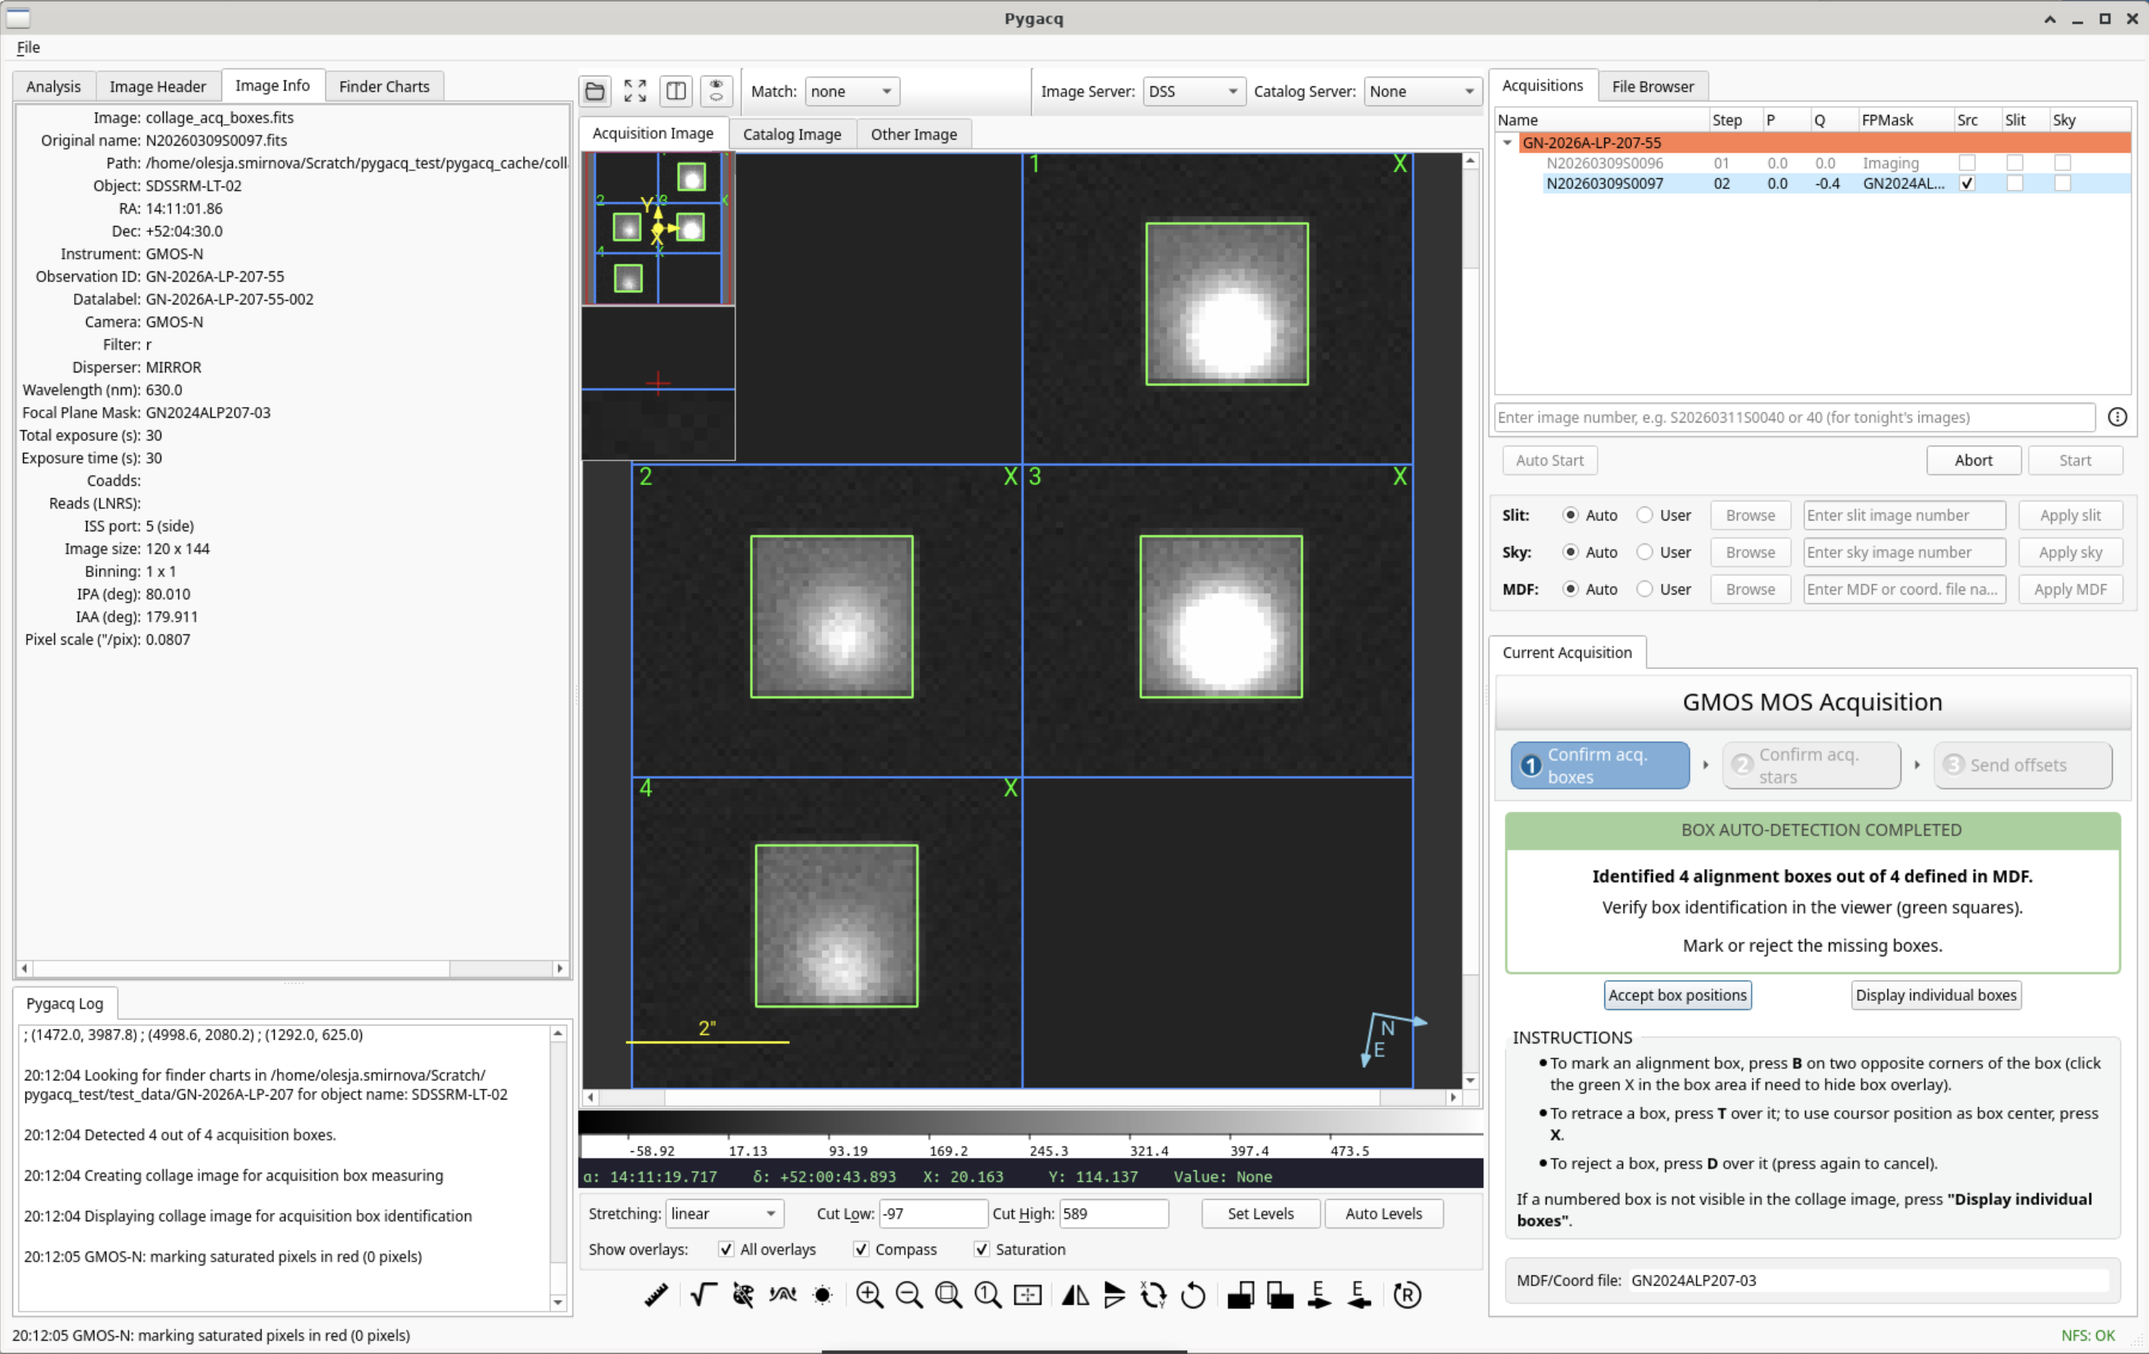
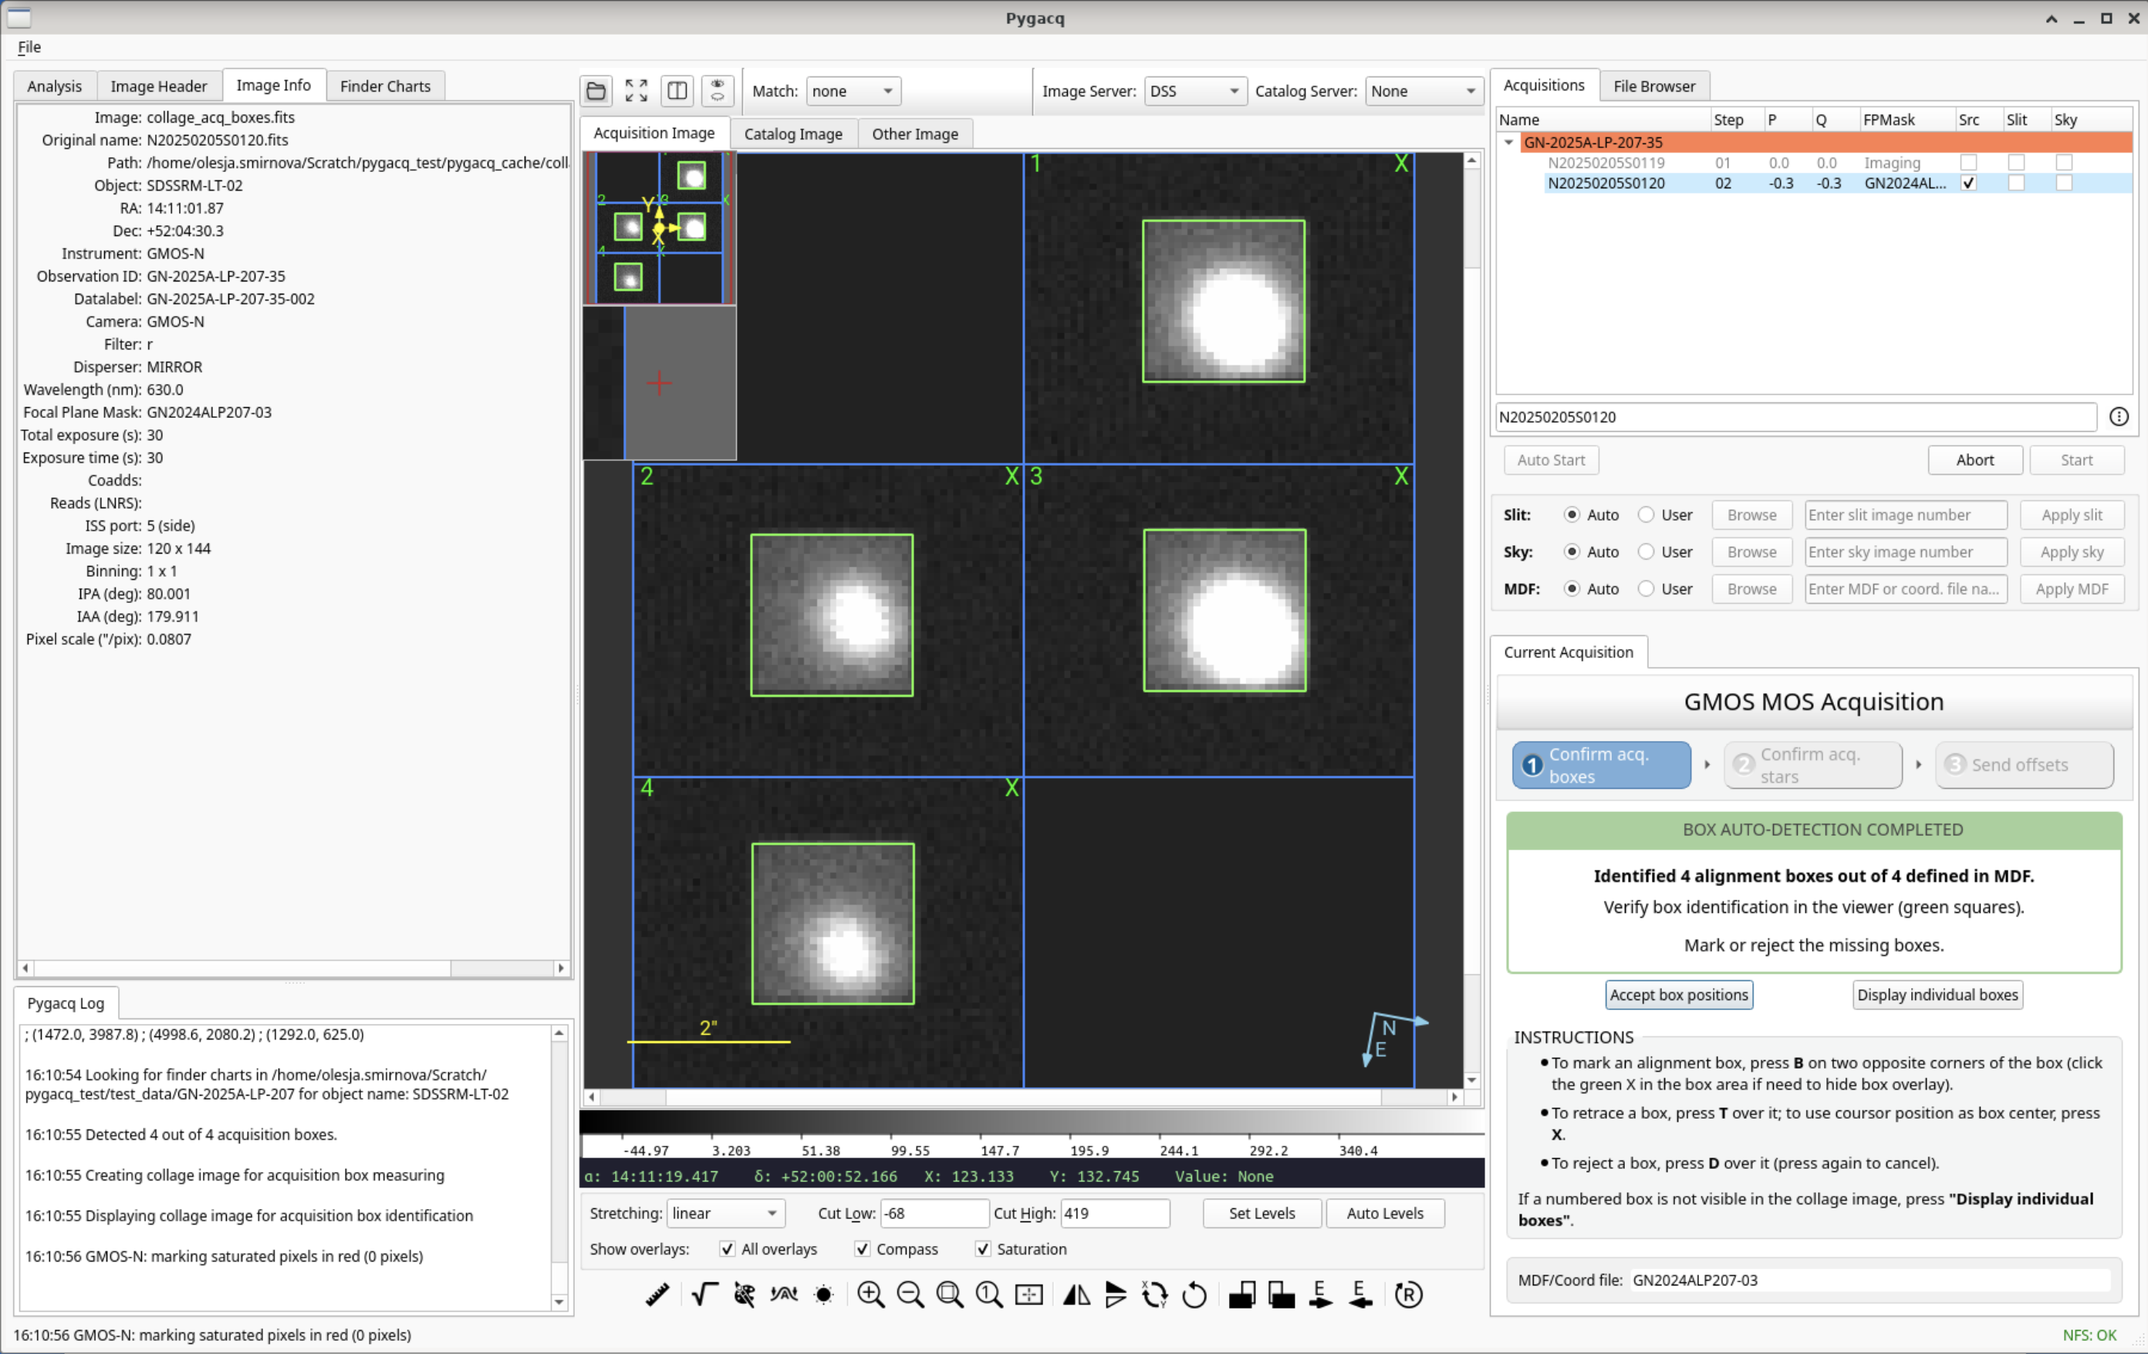
ifu modes

diff --git a/docs/tutorial/longslit-gmos.md b/docs/tutorial/longslit-gmos.md
@@ -1,19 +1,19 @@
 # GMOS long-slit acquisition
 
-This example is a GMOS-S long-slit acquisition of a relatively bright target 2026sfn
-(GS-2026A-Q-122-40). It uses four images:
+This example is a GMOS-S long-slit acquisition of a relatively bright supernova
+(GS-2024B-Q-417-201). It uses four images:
 
 | Image            | What it is                   | Slit in beam | P (") | Q (") |
 |------------------|------------------------------|--------------|-------|-------|
-| S20260713S0077   | Field image                  | no           | 0.0   | 0.0   |
-| S20260713S0078   | Off-target slit image        | yes          | 10.0  | 0.0   |
-| S20260713S0079   | Through-slit on-target image | yes          | −3.1  | 0.1   |
-| S20260713S0080   | Through-slit on-target image | yes          | −3.0  | 0.1   |
+| S20250115S0279   | Field image                  | no           | 0.0   | 0.0   |
+| S20250115S0280   | Off-target slit image        | yes          | 10.0  | 0.0   |
+| S20250115S0281   | Through-slit on-target image | yes          | −0.4  | −0.6  |
+| S20250115S0282   | Through-slit on-target image | yes          | −0.3  | −0.6  |
 
 P and Q are the telescope offsets of each image.
 
-The observer took the first two images, then started
-the acquisition on the zero-offset field image.
+The observer took the first (field) images, then started
+the acquisition on it while the second image was still exposing.
 
 :::{tip}
 You don't have to wait for the slit image to finish. Start the acquisition as
@@ -23,7 +23,7 @@ arrives.
 
 ## 1. Load the field image
 
-Type `S20260713S0077` in the *Enter image number* box and press {kbd}`Enter`.
+Type `S20250115S0279` in the *Enter image number* box and press {kbd}`Enter`.
 
 Pygacq finds the slit image of this observation and measures the slit center
 on it. The **Slit** column of the **Acquisitions** list shows which image it
@@ -39,8 +39,19 @@ The associated slit image is ticked in the **Slit** column.
 
 ## 2. Find the target with the finder chart
 
-Pygacq found a finder chart named after the target and shows it in the **Finder
-Charts** tab. To enlarge it, click the expand button below the chart.
+This target has a finder chart, but its file name doesn't contain the full
+target name, so Pygacq didn't match it. The **Finder Charts** tab shows the list
+of all charts in the program directory instead, with the target name at the top.
+Find the chart whose name contains it and double-click it to open it. To enlarge
+it, click the expand button below the chart.
+
+:::{figure} images/ls-finder-chart-list-with-arrows.png
+:width: 60%
+:alt: The Finder Charts tab listing the charts of the program, with the target name at the top
+
+The target name, `SN 2024ggi`, and the charts found in the program directory.
+Its chart is named `2024ggi_colored.png`.
+:::
 
 The chart has North up and East left. To orient the acquisition image the same
 way, click ![](images/icons/orient_ne.svg){w=22px} in the toolbar under the
@@ -76,7 +87,7 @@ instructions, and **One-target acquisition** selected.
 
 ## 4. Confirm the slit center
 
-Pygacq traces the slit on the off-target slit image, `S20260713S0078`, and
+Pygacq traces the slit on the off-target slit image, `S20250115S0280`, and
 switches the viewer to it, with the measured center and the slit overlay drawn
 on it. The plot in the **Analysis** tab shows the slit center measured along the
 slit.
@@ -98,7 +109,7 @@ cross-cut.
 :width: 100%
 :alt: The Confirm slit center step: the traced slit on the slit image and the slit-tracing plot in the Analysis tab
 
-The traced slit on `S20260713S0078`, and the slit-tracing plot on the left.
+The traced slit on `S20250115S0280`, and the slit-tracing plot on the left.
 :::
 
 ## 5. Send the offsets
@@ -115,12 +126,12 @@ on-target image. **Copy Offsets** copies the offsets, e.g. for the OT.
 
 ## 6. Load the through-slit image
 
-Type `S20260713S0079` in the *Enter image number* box and press {kbd}`Enter`.
+Type `S20250115S0281` in the *Enter image number* box and press {kbd}`Enter`.
 
 The slit is in the beam now, so this image is ticked in the **Slit** column of
 the **Acquisitions** list and could be used to measure the slit itself. The GMOS slit position is stable, so Pygacq reuses the measurement from
 the off-target slit image instead and says so on the target-marking page:
-*Reusing previous slit measurement from S20260713S0078*.
+*Reusing previous slit measurement from S20250115S0280*.
 
 Check that the slit overlay from that measurement still lies along the slit.
 
@@ -128,20 +139,24 @@ Check that the slit overlay from that measurement still lies along the slit.
 :width: 50%
 :alt: The Mark target(s) step with the message that the previous slit measurement is reused
 
-Pygacq reuses the slit measurement from `S20260713S0078`.
+Pygacq reuses the slit measurement from `S20250115S0280`.
 :::
 
 ## 7. Mark the target in the slit
 
-Mark the target as in [step 3](#3-mark-the-target). The slit cuts off part of
-the star, so the {kbd}`R` fit may be poor. If it is, press {kbd}`X` on the center
-of the star in the contour plot. Accept with {kbd}`Q`.
+Mark the target as in [step 3](#3-mark-the-target). It is bright and not cut by
+the slit, so {kbd}`R` centroids it well. Accept with {kbd}`Q`.
 
-:::{figure} images/ls-target-in-slit.png
-:width: 50%
-:alt: The contour plot of the target in the slit
+:::{figure} images/ls-target-in-slit-with-arrows.png
+:width: 100%
+:alt: The second pass: the target marked in the slit on the through-slit image
 
-The contour plot of the target in the slit. Press {kbd}`X` on the center of the star.
+The target marked in the slit on the through-slit image.
+:::
+
+:::{tip}
+If the slit cuts off part of the target, the {kbd}`R` fit can land off center.
+You can mark the star with {kbd}`X` in the contour plot instead.
 :::
 
 :::{note}
@@ -153,16 +168,25 @@ to it.
 
 ## 8. Send the offsets to improve the centering
 
-The offsets are small, so Pygacq advises *Ignore offsets and start science
-immediately*. The grey text under the offsets says why: *\|P\| < 10% of the slit
-width and \|Q\| < 0.5"*.
-
-During the actual observation, the observer chose to improve the centering and
-sent the offsets anyway. To do the same, click **Send offsets to telescope**.
-Don't press {kbd}`Enter`: the highlighted button follows the advice and ignores
-the offsets.
+The offsets are P = 0.105", Q = 0.037". \|P\| is just over 10% of the slit
+width, so the advice is to apply them and take another acquisition image. To
+follow it, press {kbd}`Enter`.
 
 After the offsets were applied, another through-slit on-target image was taken.
+
+<!-- TODO: screenshot of the offsets page for S20250115S0281. -->
+
+## 9. Check the centering and start science
+
+Load the next through-slit image, `S20250115S0282`, and repeat
+[steps 6](#6-load-the-through-slit-image) and [7](#7-mark-the-target-in-the-slit).
+The slit measurement is reused again, so the **Confirm slit center** step is
+skipped.
+
+The target is now well centered in the slit: the offsets are P = −0.005",
+Q = 0.045", both within the limits, so the advice is to ignore them and start
+science. To follow it, press {kbd}`Enter`. The last page says to start the
+science sequence.
 
 :::{figure} images/ls-offsets-ignore.png
 :width: 60%
@@ -170,14 +194,3 @@ After the offsets were applied, another through-slit on-target image was taken.
 
 The offsets are small, and **Ignore offsets** is highlighted.
 :::
-
-## 9. Check the centering and start science
-
-Load the next through-slit image, `S20260713S0080`, and repeat
-[steps 6](#6-load-the-through-slit-image) and [7](#7-mark-the-target-in-the-slit).
-The slit measurement is reused again, so the **Confirm slit center** step is
-skipped.
-
-The target is now well centered in the slit, and Pygacq advises *Ignore offsets
-and start science immediately*. To follow the advice, press {kbd}`Enter`. The
-last page says to start the science sequence.

diff --git a/docs/tutorial/mos-gmos-n.md b/docs/tutorial/mos-gmos-n.md
@@ -1,13 +1,13 @@
 # GMOS-N MOS acquisition (starting with mask out)
 
-This example starts with the mask out of the beam. The observation is GN-2026A-LP-207-55, with the mask `GN2024ALP207-03`.
+This example starts with the mask out of the beam. The observation is GN-2025A-LP-207-35, with the mask `GN2024ALP207-03`.
 It uses three images:
 
 | Image            | What it is      | Mask in beam | P (") | Q (")  |
 |------------------|-----------------|--------------|-------|--------|
-| N20260309S0096   | Field image     | no           | 0.0   | 0.0    |
-| N20260309S0097   | Mask-in image   | yes          | 0.0   | −0.4   |
-| N20260309S0098   | Mask-in image   | yes          | −0.1  | −0.1   |
+| N20250205S0119   | Field image     | no           | 0.0   | 0.0    |
+| N20250205S0120   | Mask-in image   | yes          | −0.3  | −0.3   |
+| N20250205S0121   | Mask-in image   | yes          | −0.5  | 0.0    |
 
 P and Q are the telescope offsets of each image.
 
@@ -28,11 +28,11 @@ number* box, and tick **Manual acquisition type**. It makes the flow match the
 one at night. Skip it when observing.
 :::
 
-Type `N20260309S0096` in the *Enter image number* box and press {kbd}`Enter`.
+Type `N20250205S0119` in the *Enter image number* box and press {kbd}`Enter`.
 
 In the **Select Acquisition Type** dialog, select **MOS**. Pygacq fills in the
 **Mask number** box with the program part from the current observation,
-`GN2026ALP207`. This mask was made in an earlier semester, so change it to
+`GN2025ALP207`. This mask was made in an earlier semester, so change it to
 `GN2024ALP207`, type `3` after the dash, and click **Select**.
 
 :::{figure} images/mos-type-dialog.png
@@ -84,7 +84,7 @@ image of the sequence, with the mask in.
 
 ## 4. Confirm the acquisition boxes
 
-Type `N20260309S0097` in the *Enter image number* box and press {kbd}`Enter`.
+Type `N20250205S0120` in the *Enter image number* box and press {kbd}`Enter`.
 
 The mask is in the beam now, so the first step is **Confirm acq. boxes**. Pygacq
 traces the acquisition boxes and shows them in a collage, with a green square on
@@ -119,23 +119,22 @@ The same collage, now with a red cross on the star in each box.
 ## 6. Read the offset advice
 
 Pygacq fits the mask to the star positions. The grey text under the offsets
-says why it gives its advice, here *\|P\|+\|R\| = 5% of slit width,
-\|Q\|+\|R\| > 0.2"*. There, \|R\| is the shift that the rotation causes at the
-edge of the field.
+says why it gives its advice, here *\|P\|+\|R\| > 0.2", \|Q\|+\|R\| > 0.2"*.
+There, \|R\| is the shift that the rotation causes at the edge of the field.
 
 Here the stars are still off the box centers, so the advice is to apply the
 offsets and take another acquisition image. To follow it, press {kbd}`Enter`.
 
 :::{figure} images/mos-offsets.png
 :width: 60%
-:alt: The offsets page for N20260309S0097, advising to apply the offsets and take another acquisition image
+:alt: The offsets page for N20250205S0120, advising to apply the offsets and take another acquisition image
 
-The offsets for `N20260309S0097`.
+The offsets for `N20250205S0120`: P = −0.217", Q = 0.267", Rot = 0.015°.
 :::
 
 ## 7. Check the alignment and start science
 
-Load the next mask-in image, `N20260309S0098`, and repeat
+Load the next mask-in image, `N20250205S0121`, and repeat
 [steps 4](#4-confirm-the-acquisition-boxes) to
 [6](#6-read-the-offset-advice).
 

diff --git a/docs/how-to.md b/docs/how-to.md
@@ -29,8 +29,8 @@ directory. Put its associated images there too, e.g. the slit image or the MDF,
 and Pygacq finds them as well.
 
 During the testing period the user data directory is
-`~/Scratch/pygacq_test/user_data`.
-
+`~/Scratch/pygacq_test/user_data`. After that, use the Pygacq cache directory
+instead.
 
 ## Align the acquisition image North up, East left
 
@@ -66,9 +66,21 @@ Use a coordinate file instead of an MDF, e.g. one you created from a mask-in
 image. It is a text file with the box positions, one `x y` pair per line.
 
 Before starting the acquisition, set **MDF** to **User**. Type just the file
-name if the file is in the program folder or in the Pygacq user data directory,
-or the full path if it is somewhere else. You can also click **Browse** to find
-it. Then click **Apply MDF**.
+name if the file is in the program folder or in the Pygacq user data directory
+(the cache directory after the testing period), or the full path if it is
+somewhere else. You can also click **Browse** to find it. Then click **Apply
+MDF**.
+
+## Choose the slit and sky images yourself
+
+Pygacq picks them from the images of the observation. To use different ones, set
+**Slit** or **Sky** to **User**, then either tick the image's **Slit** or **Sky**
+box in the **Acquisitions** list, or type its image number (or click **Browse**)
+and click **Apply slit** or **Apply sky**.
+
+This works during an acquisition too. Pygacq checks the image first, and keeps
+the old one if it isn't suitable. See
+[Choosing the slit and sky images yourself](tutorial/main-window.md#choosing-the-slit-and-sky-images-yourself).
 
 ## Run an acquisition without type auto-detection
 
@@ -83,11 +95,13 @@ The option only applies to the next acquisition you start. See
 
 Pygacq keeps earlier measurements, such as the slit position, in its database
 and reuses them in later acquisitions of the same observation. To measure
-everything from scratch, choose **File → Cleanup → Reset Database** before
-starting the acquisition.
+everything from scratch, tick **Don't reuse previous measurements** in the
+acquisition options, under the three-dots button next to the *Enter image
+number* box, before starting the acquisition.
 
 To remeasure only the slit in the current acquisition, click **Accept target,
-remeasure slit** instead. See
+remeasure slit** instead. For testing, **File → Cleanup → Reset Database**
+clears the measurements of every observation. See
 [Clearing the cache and the database](tutorial/getting-started.md#clearing-the-cache-and-the-database).
 
 ## See an image's header

diff --git a/docs/tutorial/getting-started.md b/docs/tutorial/getting-started.md
@@ -105,6 +105,9 @@ you type an image number or a file name, Pygacq looks in this directory as
 well as in the usual data and MDF directories. The **User Dir** button in
 the **File Browser** tab takes you there.
 
+This directory is only used during the testing period. After that, put such
+files in the Pygacq cache directory instead.
+
 ### Clearing the cache and the database
 
 Pygacq remembers the acquisitions it has already run:
@@ -118,6 +121,10 @@ Pygacq remembers the acquisitions it has already run:
 To run an acquisition as if it had never been run before, with freshly
 processed images and no reused measurements, clear both: choose
 **File → Cleanup → Reset Cache**, then **File → Cleanup → Reset Database**.
+This is meant for testing.
+
+At night, tick **Don't reuse previous measurements** in the acquisition options
+instead, under the three-dots button next to the *Enter image number* box.
 
 ## The main window at a glance
 
@@ -233,7 +240,7 @@ Below that:
 - a text box, *Enter image number*, where you type the image to acquire;
 - **Start** starts an acquisition and **Abort** stops it;
 - **Auto Start** starts an acquisition automatically whenever a new
-  acquisition image arrives (not available yet);
+  acquisition image arrives (will be available with GPP);
 - **Slit**, **Sky** and **MDF** are normally left on **Auto**. Choose **User**
   to pick the image or file yourself.
 

diff --git a/docs/tutorial/main-window.md b/docs/tutorial/main-window.md
@@ -305,7 +305,7 @@ Below that:
 - **Start** starts an acquisition (see
   [Starting an acquisition](#starting-an-acquisition)).
 - **Auto Start** starts an acquisition automatically whenever a new acquisition
-  image arrives (not available yet).
+  image arrives (will be available with GPP).
 - **Abort** stops the ongoing acquisition.
 - **Slit**, **Sky** and **MDF**: which slit image, sky image and mask definition
   file to use (see
@@ -328,7 +328,8 @@ There are several ways to start an acquisition:
 : Double-click a FITS file, or select it and click **Start**.
 
 **Auto Start**
-: Pygacq starts an acquisition by itself when a new acquisition image arrives (not available yet).
+: Pygacq starts an acquisition by itself when a new acquisition image arrives
+  (will be available with GPP).
 
 
 #### Select Acquisition Type dialog

diff --git a/docs/tutorial/ifu.md b/docs/tutorial/ifu.md
@@ -1,7 +1,8 @@
 # IFU acquisition
 
-:::{note}
-This example is still being written.
-:::
+```{toctree}
+:maxdepth: 1
 
-<!-- TODO: walk through one IFU acquisition, step by step, following the same outline as the imaging draft (docs/_drafts/imaging.md). -->
+ifu-gmos-s
+ifu-gnirs
+```
